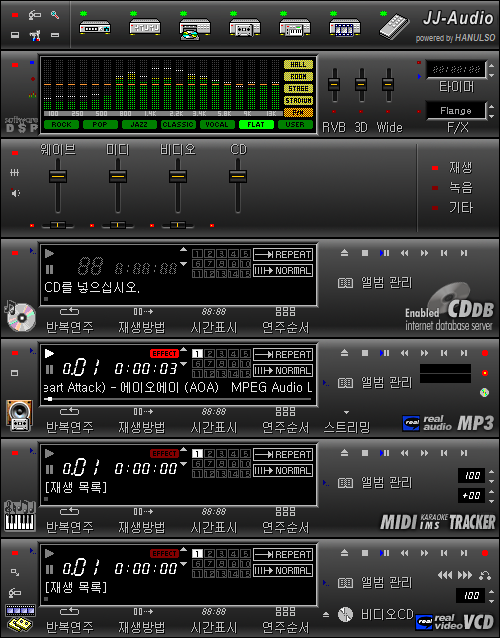
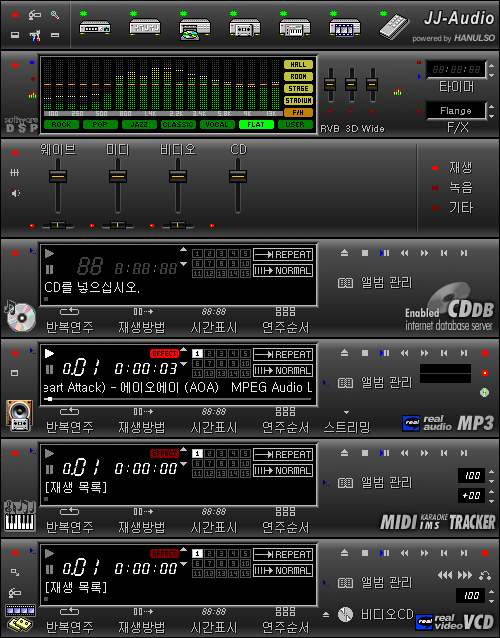
Update README for 1.0.1

diff --git a/README.md b/README.md
@@ -23,8 +23,9 @@ The program's menus and messages are in Korean.
 JJ-Audio checks for a new version once a day when it starts. When one is out, it shows what's new and asks
 whether to update. Click **Yes**, and it downloads the new version, installs it and restarts by itself.
 
-You can also check any time: right-click the main window and choose **업데이트 확인** (Check for updates).
-To turn off the daily check, untick **시작할 때 업데이트 확인** (Check for updates at startup) in the same menu.
+You can also check any time: right-click the main window and choose **쭌쭌이 오디오 → 업데이트 확인**
+(JJ-Audio → Check for updates). To turn off the daily check, untick **시작할 때 업데이트 확인**
+(Check for updates at startup) in the same menu.
 
 Updates are signed, and JJ-Audio installs only files that match the signature.
 
@@ -32,16 +33,26 @@ Updates are signed, and JJ-Audio installs only files that match the signature.
 
 ### Music
 
-- Plays MP3, AAC / M4A, OGG, Opus, FLAC, WAV, APE, WavPack and more, plus tracker modules (MOD, S3M, XM, IT).
+- Plays MP3, AAC / M4A, OGG, Opus, FLAC, WAV, APE, WavPack and more, plus tracker modules (MOD, S3M, XM, IT, UMX).
 - Albums and playlists, repeat and shuffle, A-B repeat, sleep timer and alarm.
-- Internet radio.
+- Internet radio, with a built-in station search (see below).
 - Audio CDs: play, look up track names and rip to files.
 - Records what you hear to a file.
+
+### Internet radio
+
+Right-click the main window and choose **기능 → 인터넷 방송 찾기** (Tools → Find internet radio). Search by
+name, country or genre and double-click a station to listen. The list comes from
+[radio-browser.info](https://www.radio-browser.info). The Korean broadcasters KBS, MBC and SBS are listed
+first and play through their official streams.
+
+![Internet radio search](screenshots/radio.png)
 
 ### Sound
 
 - 20-band equalizer with presets, reverb, 3D surround, wide stereo and bass boost.
 - Extra effects such as headphone crossfeed, automatic volume levelling, and speed and key change.
+  Open them with the icon next to **Wide** on the sound effects panel.
 
 ### Spectrum and lyrics
 
@@ -55,10 +66,16 @@ Updates are signed, and JJ-Audio installs only files that match the signature.
 
 ![Visualizers](screenshots/visualizer.png)
 
-### MIDI, karaoke and retro music
+### MIDI, karaoke, retro and game music
 
-- MIDI and karaoke files with lyrics.
-- AdLib and other chip music (IMS, ROL, SOP, CMF, VGM, Furnace and more) with a choice of sound chip emulators.
+- MIDI and karaoke files with lyrics, through Windows or a **SoundFont (SF2)** of your choice
+  (Preferences → MIDI output device → SoundFont).
+- AdLib and other chip music (IMS, ROL, SOP, CMF, VGM, Furnace and more), with a choice of sound chip
+  emulators: Nuked OPL3, DOSBox, MAME, Ken Silverman, ymfm, and the transistor-level YMF262-LLE and
+  YM3812-LLE (very accurate, but they need a fast PC).
+- Game console music: NSF (NES), SPC (SNES), GBS (Game Boy), HES, KSS, AY, SAP, GYM and Mega Drive VGM.
+- Loops: tracker modules and VGM return to the song's own loop point. With **repeat one** they loop forever;
+  otherwise game music fades out after two loops.
 
 ### Video, DVD and Blu-ray
 
@@ -89,6 +106,8 @@ Playback resumes where you left off.
 
 ### Looks
 
+- **Screen size:** JJ-Audio follows the Windows display scale. To make it bigger or smaller, right-click the
+  main window and choose **모양 → 화면 크기** (Look → Screen size), from 100% to 300%.
 - The original Jet-Audio skins (Default, Gold, Silver, Ivory, White, Gold2, Silver2, Black2) and a Classic Amp skin.
 - Menus and dialogs can look like Windows 3.1, 95, 98, 2000, OS/2, Mac OS, BeOS and more.
 - Remote control window, tray icon and global hotkeys.
